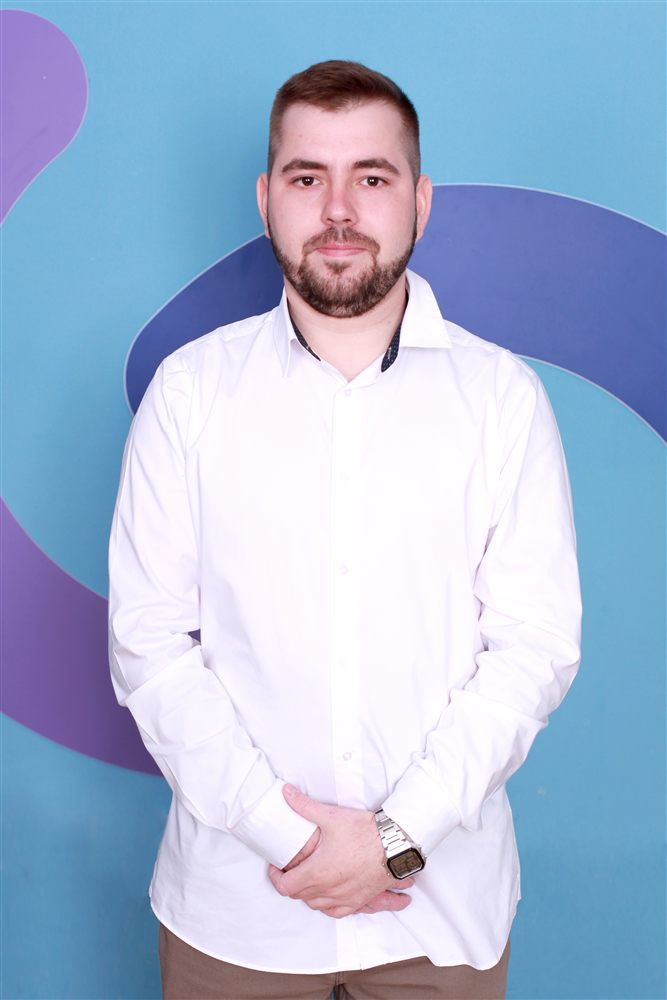
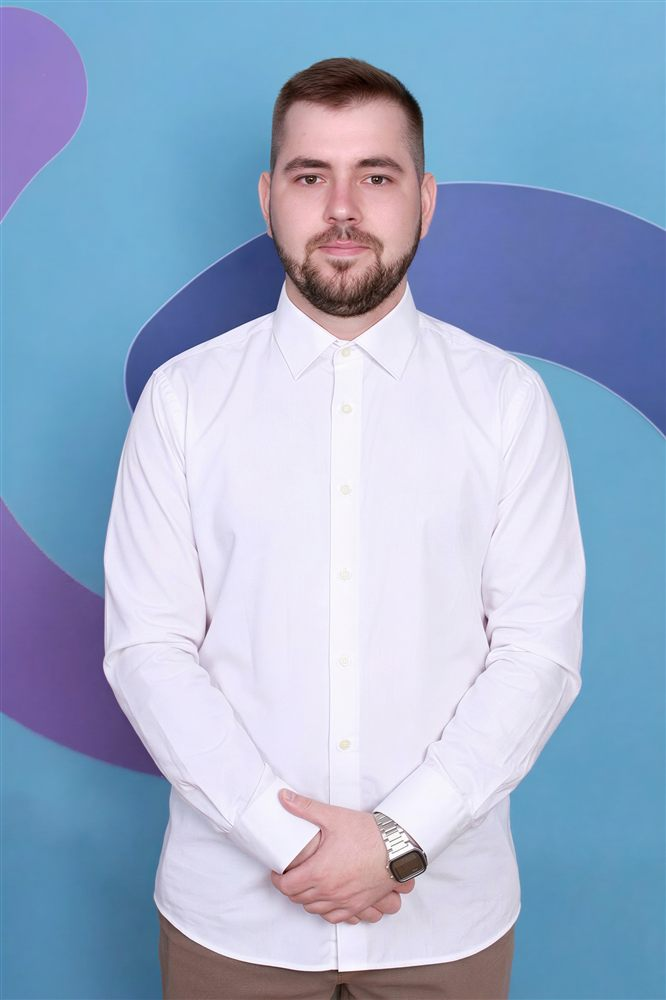
Педколектив: нові посади заступників, Яковець, Піщета, асистенти (8); фото Сидорова; адміністрація з фото

diff --git a/js/teachers.js b/js/teachers.js
@@ -34,20 +34,19 @@ window.TEACHERS = (function () {
         { name: "Олійник Інна Львівна", role: "Вчитель початкових класів", photo: "img/teachers/OliynykInna.JPG" },
         { name: "Боднянська Марина Ігорівна", role: "Вчитель початкових класів", photo: "img/teachers/BiodnyanskaMaryna.JPG" },
         { name: "Старишко Ольга Іванівна", role: "Вчитель початкових класів", photo: "img/teachers/StaryshkoOlha.JPG" },
-        /*{ name: "Піщета Наталія Владиславівна", role: "Вчитель початкових класів", post: "Голова МО", photo: "" },*/
+        { name: "Піщета Наталія Владиславівна", role: "Вчитель початкових класів", photo: "" },
         { name: "Кудінова Олена Миколаївна", role: "Вчитель початкових класів", photo: "img/teachers/KudinovaOlena.JPG" },
         { name: "Поливяна Алла Анатоліївна", role: "Вчитель початкових класів", photo: "img/teachers/PolyvyanaAlla.JPG" },
         /*{ name: "Ступак Наталія Пилипівна", role: "Вчитель початкових класів", photo: "" },*/
-        { name: "Вітер Тамара Євгеніївна", role: "Вчитель початкових класів", post: "Декретна відпустка", photo: "img/teachers/ViterTamara.JPG" }
       ] },
 
     { id: "ukrainska", title: "Українська мова та література", icon: "pen",
       desc: "Методичне об'єднання вчителів української мови та літератури.",
       people: [
         { name: "Дуб Любов Анатоліївна", role: "Вчитель української мови та літератури", post: "Голова МО", photo: "img/teachers/DubLyubov.JPG" },
-        { name: "Терехова Наталія Миколаївна", role: "Вчитель української мови та літератури", post: "Заступник директора з НВР", photo: "img/teachers/TerehovaNatalya.JPG" },
+        { name: "Терехова Наталія Миколаївна", role: "Вчитель української мови та літератури", photo: "img/teachers/TerehovaNatalya.JPG" },
         { name: "Хоменко Людмила Степанівна", role: "Вчитель української мови", post: "Заступник директора з НВР", photo: "img/teachers/KhomenkoLudmila.JPG" },
-        { name: "Погребна Юлія Сергіївна", role: "Вчитель української мови та літератури", post: "Педагог-організатор", photo: "img/teachers/YakovetsYuliya.JPG" },
+        { name: "Яковець Юлія Сергіївна", role: "Вчитель української мови та літератури", photo: "img/teachers/YakovetsYuliya.JPG" },
         /*{ name: "Ткаченко Тамара Григорівна", role: "Вчитель української мови та літератури", post: "Сумісник", photo: "" },*/
         { name: "Шаповал Наталія Володимирівна", role: "Вчитель української мови та літератури", photo: "img/teachers/ShapovalNatalya.JPG" },
         { name: "Грецький Ярослав Сергійович", role: "Вчитель української мови та літератури", photo: "img/teachers/YaroslavGretskiy.JPG" }
@@ -65,7 +64,7 @@ window.TEACHERS = (function () {
       people: [
         { name: "Гошкодеря Олена Вікторівна", role: "Вчитель англійської мови", post: "Директор", photo: "img/teachers/GoshkoderyaOlena.JPG" },
         { name: "Овсеєва Вікторія Олександрівна", role: "Вчитель англійської мови", photo: "img/teachers/OvseevaViktoviya.JPG" },
-        { name: "Коваль Яна Анатоліївна", role: "Вчитель англійської мови", photo: "img/teachers/KovalYanna.JPG" },
+        { name: "Коваль Яна Анатоліївна", role: "Вчитель англійської мови", post: "Заступник директора з ВР", photo: "img/teachers/KovalYanna.JPG" },
         { name: "Співак Тетяна Яківна", role: "Вчитель англійської мови", photo: "" },
         { name: "Пихаленко Юлія Анатоліївна", role: "Вчитель англійської мови", photo: "img/teachers/PykhalenkoYuliya.JPG" }
       ] },
@@ -92,7 +91,7 @@ window.TEACHERS = (function () {
         { name: "Плис Світлана Андріївна", role: "Вчитель математики", photo: "" },
         { name: "Баранович Олеся Володимирівна", role: "Вчитель математики", photo: "img/teachers/BaranovichOlesya.JPG" },
        /* { name: "Запорожець Ольга Миколаївна", role: "Вчитель інформатики", post: "Сумісник", photo: "" },*/
-        { name: "Суравцова Олена Анатоліївна", role: "Вчитель інформатики", photo: "img/teachers/SuravtsovaOlena.JPG" },
+        { name: "Суравцова Олена Анатоліївна", role: "Вчитель інформатики", post: "Заступник директора з НВР", photo: "img/teachers/SuravtsovaOlena.JPG" },
         { name: "Сидоров Владислав Іванович", role: "Вчитель інформатики", photo: "img/teachers/SydorovVladyslav.JPG" }
       ] },
 
@@ -118,11 +117,14 @@ window.TEACHERS = (function () {
     { id: "asystenty", title: "Асистенти вчителів", icon: "heart",
       desc: "Асистенти, які супроводжують дітей з особливими освітніми потребами в інклюзивних класах.",
       people: [
-        /*{ name: "Демчук Ольга Олегівна", role: "Асистент учителя початкових класів", photo: "" },*/
+        { name: "Демчук Ольга Олегівна", role: "Асистент учителя початкових класів", photo: "" },
         { name: "Лісна Марина Сергіївна", role: "Асистент учителя", photo: "img/teachers/LysnaMaryna.JPG" },
         { name: "Доманська Ірина Анатоліївна", role: "Асистент учителя", photo: "img/teachers/DomanskaIryna.JPG" },
         { name: "Носов Євген Вячеславович", role: "Асистент учителя початкових класів", photo: "img/teachers/NosovEvgen.JPG" },
-        { name: "Воробєй Марія Андріївна", role: "Асистент учителя початкових класів", photo: "img/teachers/VorobeyMaryna.JPG" }
+        { name: "Воробєй Марія Андріївна", role: "Асистент учителя початкових класів", photo: "img/teachers/VorobeyMaryna.JPG" },
+        { name: "Вітер Тамара Євгеніївна", role: "Асистент учителя", photo: "img/teachers/ViterTamara.JPG" },
+        { name: "Семеліт", role: "Асистент учителя", photo: "" },
+        { name: "Анацька", role: "Асистент учителя", photo: "" }
       ] },
 
     { id: "organizator", title: "Викладач-організатор", icon: "users",

diff --git a/js/about.js b/js/about.js
@@ -31,13 +31,13 @@ window.ABOUT = (function () {
      !!! Час прийому нижче — ЗРАЗОК. Замініть на дані з графіка прийому (PDF за посиланням receptionDoc нижче). */
   var admin = [
     { name: "Гошкодеря Олена Вікторівна", position: "Директор ліцею", subject: "Учитель англійської мови",
-      photo: "", phone: "", email: "", reception: [{ day: 1, time: "14:00–16:00" }, { day: 4, time: "09:00–11:00" }] },
-    { name: "Терехова Наталія Миколаївна", position: "Заступник директора з НВР", subject: "Учитель української мови та літератури",
-      photo: "", phone: "", email: "", reception: [{ day: 2, time: "14:00–16:00" }] },
+      photo: "img/teachers/GoshkoderyaOlena.JPG", phone: "", email: "", reception: [{ day: 1, time: "14:00–16:00" }, { day: 4, time: "09:00–11:00" }] },
+    { name: "Суравцова Олена Анатоліївна", position: "Заступник директора з НВР", subject: "Учитель інформатики",
+      photo: "img/teachers/SuravtsovaOlena.JPG", phone: "", email: "", reception: [{ day: 2, time: "14:00–16:00" }] },
     { name: "Хоменко Людмила Степанівна", position: "Заступник директора з НВР", subject: "Учитель української мови",
-      photo: "", phone: "", email: "", reception: [{ day: 3, time: "14:00–16:00" }] },
-    { name: "Шаповал Наталія Володимирівна", position: "Заступник директора з ВР", subject: "Учитель української мови",
-      photo: "", phone: "", email: "", reception: [{ day: 5, time: "13:00–15:00" }] }
+      photo: "img/teachers/KhomenkoLudmila.JPG", phone: "", email: "", reception: [{ day: 3, time: "14:00–16:00" }] },
+    { name: "Коваль Яна Анатоліївна", position: "Заступник директора з ВР", subject: "Учитель англійської мови",
+      photo: "img/teachers/KovalYanna.JPG", phone: "", email: "", reception: [{ day: 5, time: "13:00–15:00" }] }
   ];
   var receptionNote = "Попередньо записатися на прийом можна за електронною поштою ліцею.";
   var receptionDoc = "https://drive.google.com/file/d/1I8MPSfuc-UrYHSmfa6Z9Fk9If-yBEFHl/view";   /* PDF з графіком прийому */

diff --git a/index.html b/index.html
@@ -411,7 +411,7 @@
 <script src="js/data.js"></script>
 <script src="js/common.js?v=3"></script>
 <!-- Для пошуку по всьому сайту -->
-<script src="js/teachers.js"></script>
+<script src="js/teachers.js?v=6"></script>
 <script src="js/sections/education.js"></script>
 <script src="js/sections/public.js"></script>
 <script src="js/sections/upbringing.js"></script>

diff --git a/about.html b/about.html
@@ -259,8 +259,8 @@
 
 <script src="js/data.js"></script>
 <script src="js/common.js?v=3"></script>
-<script src="js/teachers.js"></script>
-<script src="js/about.js"></script>
-<script src="js/about-page.js?v=3"></script>
+<script src="js/teachers.js?v=6"></script>
+<script src="js/about.js?v=4"></script>
+<script src="js/about-page.js?v=4"></script>
 </body>
 </html>

diff --git a/teachers.html b/teachers.html
@@ -211,7 +211,7 @@
 
 <script src="js/data.js"></script>
 <script src="js/common.js?v=3"></script>
-<script src="js/teachers.js?v=5"></script>
+<script src="js/teachers.js?v=6"></script>
 <script src="js/teachers-page.js?v=3"></script>
 </body>
 </html>
